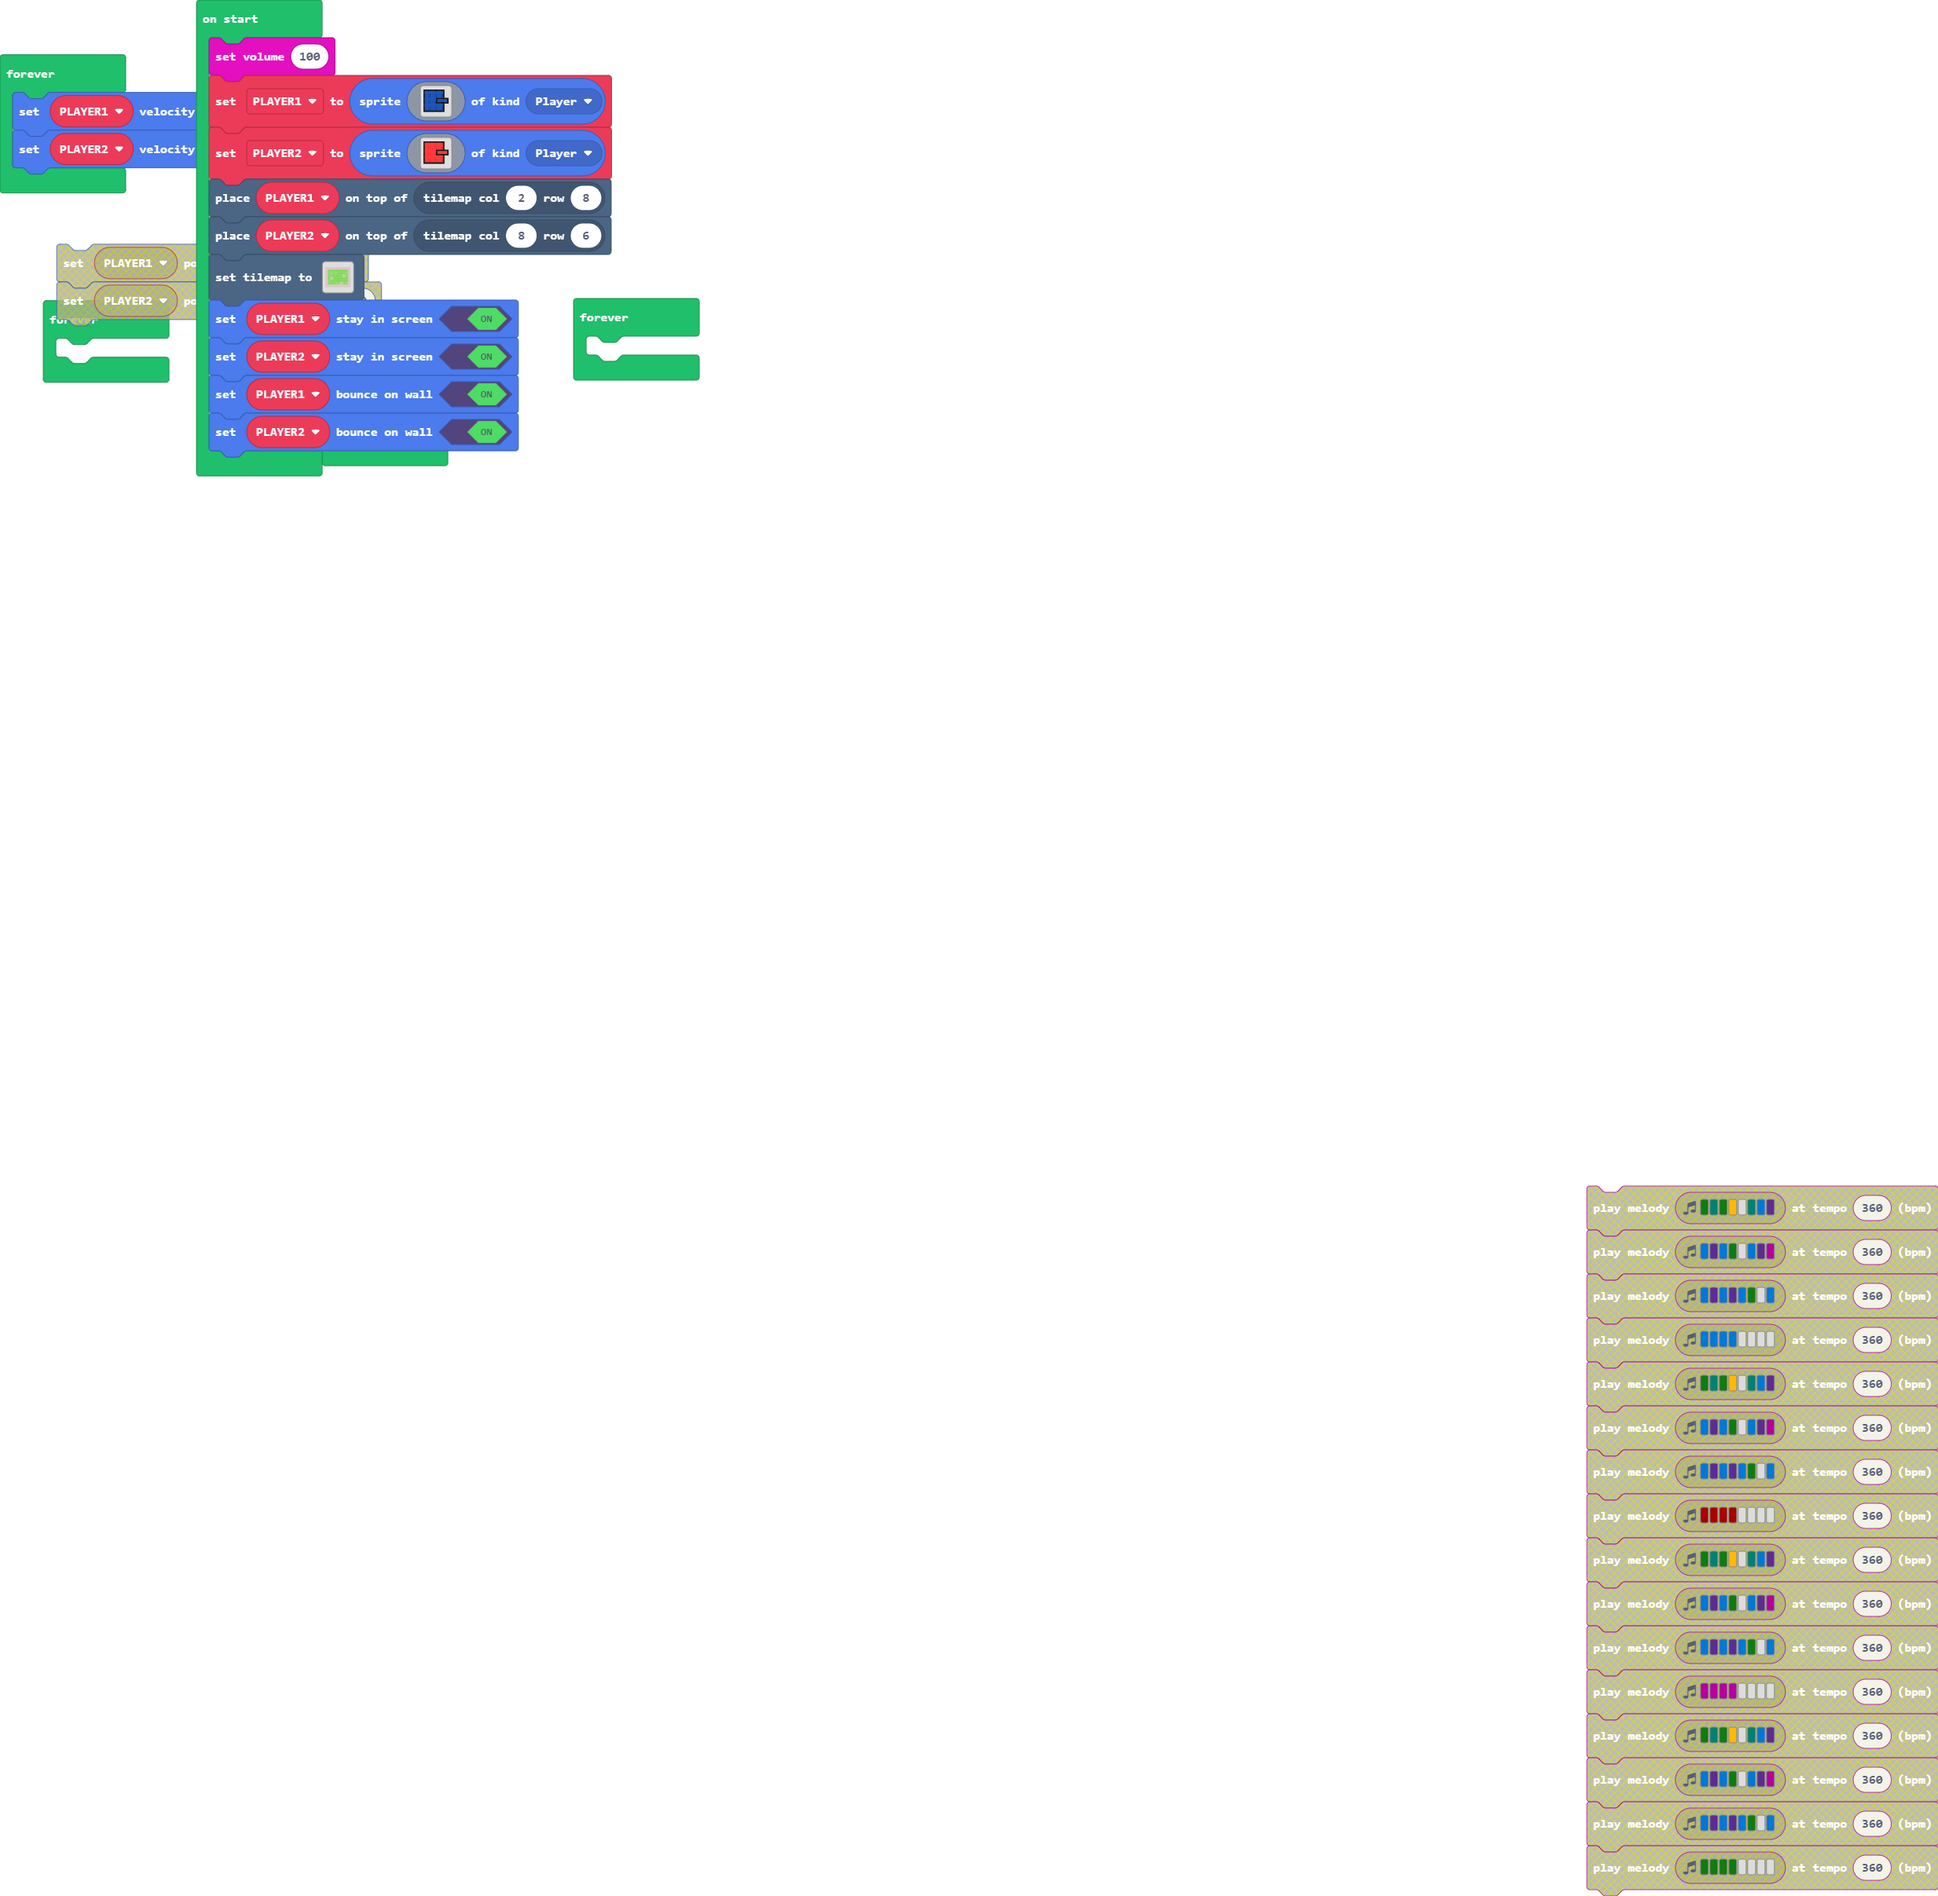
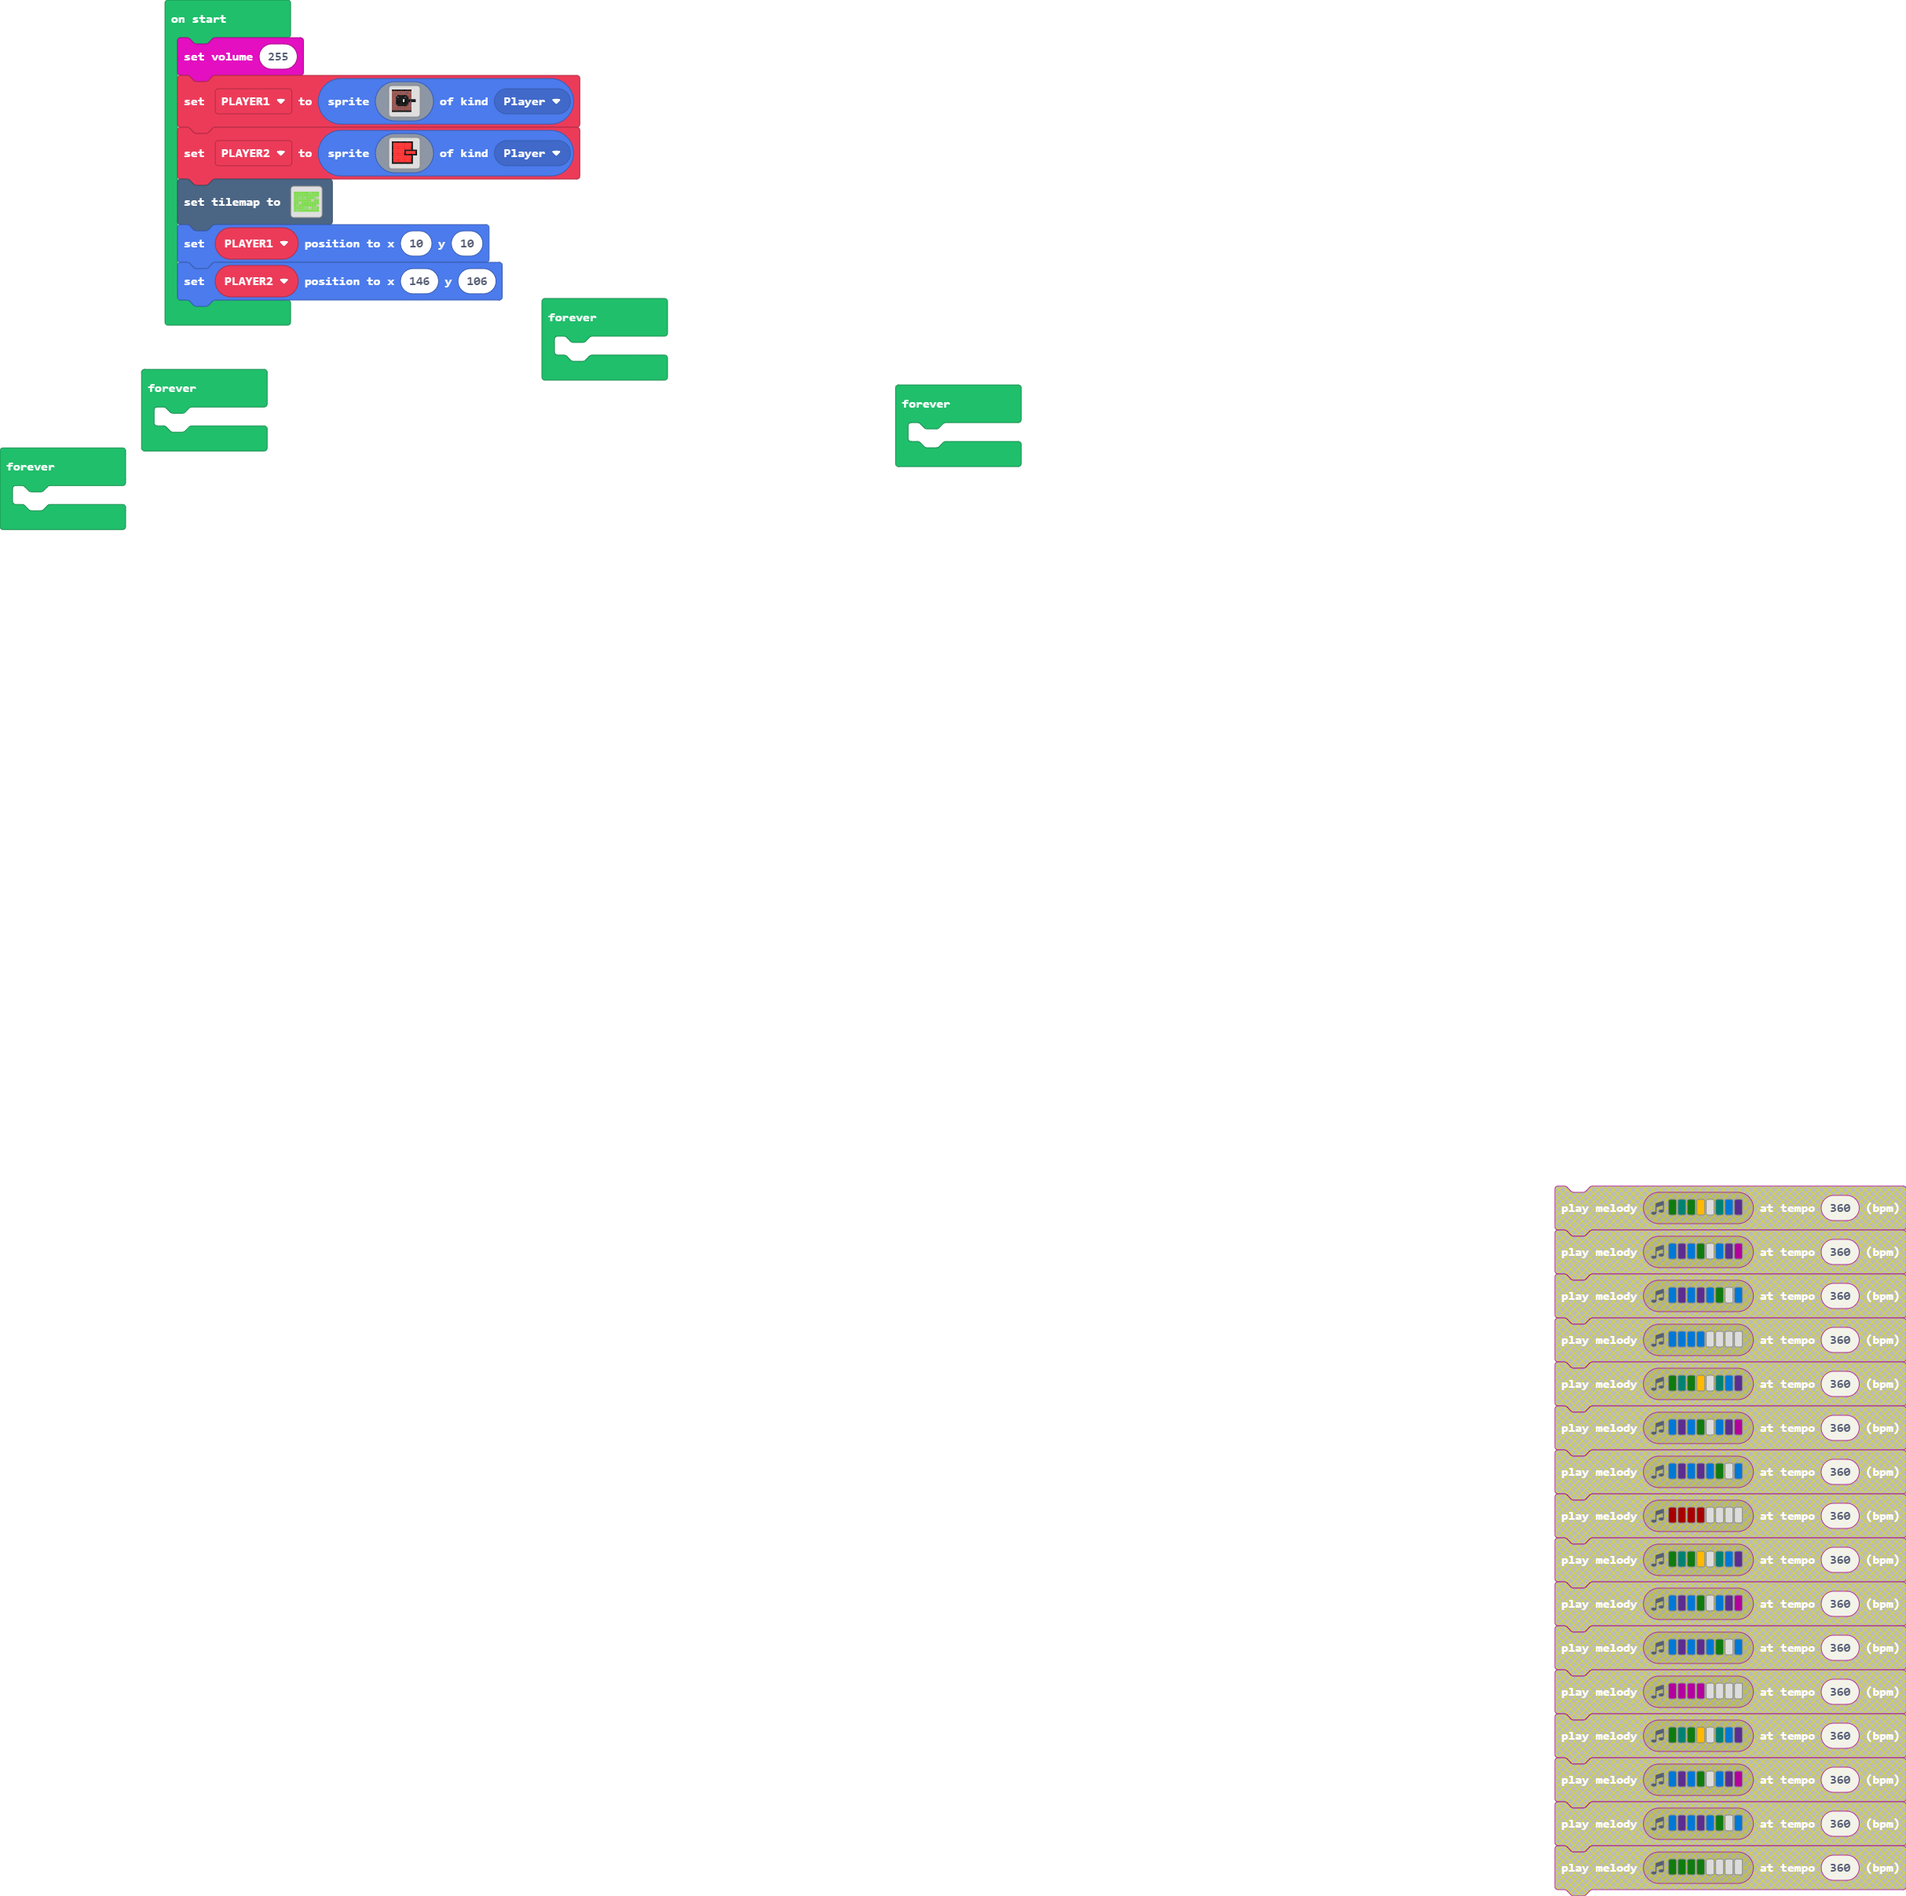
Update main.blocks, main.ts, tilemap.g.jres, tilemap.g.ts

diff --git a/tilemap.g.ts b/tilemap.g.ts
@@ -6,16 +6,54 @@ namespace myTiles {
     helpers._registerFactory("tilemap", function(name: string) {
         switch(helpers.stringTrim(name)) {
             case "level1":
[1 lines of base64/hex data omitted]
-2 2 2 2 2 2 2 2 2 2 
-2 . . . . . . . . 2 
-2 . . . . . . . . 2 
-2 . . . . . . . . 2 
-2 . . . . . . . . 2 
-2 . . . . . . . . 2 
-2 . . . . . . . . 2 
-2 2 2 2 2 2 2 2 2 2 
-`, [myTiles.transparency16,sprites.castle.tileGrass1,sprites.castle.tilePath4,sprites.castle.tilePath6,sprites.castle.tilePath2,sprites.castle.tileGrass2,sprites.dungeon.floorLight0], TileScale.Sixteen);
[1 lines of base64/hex data omitted]
+. . . . . . . . . . 
+. . . . . . . . . . 
+. . . . . . . . . . 
+. . . . . . . . . . 
+. . . . . . . . . . 
+. . . . . . . . . . 
+. . . . . . . . . . 
+. . . . . . . . . . 
+`, [myTiles.transparency16,sprites.castle.tileGrass1,sprites.castle.tilePath4,sprites.castle.tilePath6,sprites.castle.tilePath2,sprites.castle.tileGrass2], TileScale.Sixteen);
+            case "level2":
+            case "level2":return tiles.createTilemap(hex`1000100000000000000000000000000000000000000000000000000000000000000000000000000000000000000000000000000000000000000000000000000000000000000000000000000000000000000000000000000000000000000000000000000000000000000000000000000000000000000000000000000000000000000000000000000000000000000000000000000000000000000000000000000000000000000000000000000000000000000000000000000000000000000000000000000000000000000000000000000000000000000000000000000000000000000000000000000000000000000000000000000000000000000000000000000000000000`, img`
+. . . . . . . . . . . . . . . . 
+. . . . . . . . . . . . . . . . 
+. . . . . . . . . . . . . . . . 
+. . . . . . . . . . . . . . . . 
+. . . . . . . . . . . . . . . . 
+. . . . . . . . . . . . . . . . 
+. . . . . . . . . . . . . . . . 
+. . . . . . . . . . . . . . . . 
+. . . . . . . . . . . . . . . . 
+. . . . . . . . . . . . . . . . 
+. . . . . . . . . . . . . . . . 
+. . . . . . . . . . . . . . . . 
+. . . . . . . . . . . . . . . . 
+. . . . . . . . . . . . . . . . 
+. . . . . . . . . . . . . . . . 
+. . . . . . . . . . . . . . . . 
+`, [myTiles.transparency16], TileScale.Sixteen);
+            case "level3":
+            case "level3":return tiles.createTilemap(hex`1000100000000000000000000000000000000000000000000000000000000000000000000000000000000000000000000000000000000000000000000000000000000000000000000000000000000000000000000000000000000000000000000000000000000000000000000000000000000000000000000000000000000000000000000000000000000000000000000000000000000000000000000000000000000000000000000000000000000000000000000000000000000000000000000000000000000000000000000000000000000000000000000000000000000000000000000000000000000000000000000000000000000000000000000000000000000000`, img`
+. . . . . . . . . . . . . . . . 
+. . . . . . . . . . . . . . . . 
+. . . . . . . . . . . . . . . . 
+. . . . . . . . . . . . . . . . 
+. . . . . . . . . . . . . . . . 
+. . . . . . . . . . . . . . . . 
+. . . . . . . . . . . . . . . . 
+. . . . . . . . . . . . . . . . 
+. . . . . . . . . . . . . . . . 
+. . . . . . . . . . . . . . . . 
+. . . . . . . . . . . . . . . . 
+. . . . . . . . . . . . . . . . 
+. . . . . . . . . . . . . . . . 
+. . . . . . . . . . . . . . . . 
+. . . . . . . . . . . . . . . . 
+. . . . . . . . . . . . . . . . 
+`, [myTiles.transparency16], TileScale.Sixteen);
         }
         return null;
     })

diff --git a/main.ts b/main.ts
@@ -1,21 +1,21 @@
-music.setVolume(100)
+music.setVolume(255)
 let PLAYER1 = sprites.create(img`
-    f f f f f f f f f f f f f f f . . . 
-    f 8 8 8 8 8 8 8 8 8 8 8 8 8 f . . . 
-    f 8 8 8 8 8 8 8 8 8 8 8 8 8 f . . . 
-    f 8 8 8 8 8 8 8 8 8 8 8 8 8 f . . . 
-    f 8 8 8 8 8 8 8 8 8 8 8 8 8 f . . . 
-    f 8 8 8 8 8 8 8 8 8 8 8 8 8 f . . . 
-    f 8 8 8 8 8 8 8 8 f f f f f f f f f 
-    f 8 8 8 8 8 8 8 8 f 8 8 8 8 8 8 8 f 
-    f 8 8 8 8 8 8 8 8 f 8 8 8 8 8 8 8 f 
-    f 8 8 8 8 8 8 8 8 f f f f f f f f f 
-    f 8 8 8 8 8 8 8 8 8 8 8 8 8 f . . . 
-    f 8 8 8 8 8 8 8 8 8 8 8 8 8 f . . . 
-    f 8 8 8 8 8 8 8 8 8 8 8 8 8 f . . . 
-    f 8 8 8 8 8 8 8 8 8 8 8 8 8 f . . . 
-    f 8 8 8 8 8 8 8 8 8 8 8 8 8 f . . . 
-    f f f f f f f f f f f f f f f . . . 
+    f f f f f f f f f f f f f f . . . . 
+    e e e e e e e e e e e e e e . . . . 
+    e e e e e e c e e e c c e e . . . . 
+    e e c e e e e e e e e e e e . . . . 
+    e e e e f f f f f f f e e e . . . . 
+    e e e f c f f f f c f f e e . . . . 
+    e e e f f f f f f f f f e e . . . . 
+    e e e f f f f f 1 f f f f f f f f . 
+    e e e f f f f f 1 f f f f c f f f . 
+    e e e f f f f f f f f f e e . . . . 
+    e e e f f f f f f f f f e c . . . . 
+    c e e e f f f f f f f e e e . . . . 
+    e e e e e e e e e e e e e e . . . . 
+    e e c e e e c e e e e c e e . . . . 
+    e e e e e e e e e e e e e e . . . . 
+    f f f f f f f f f f f f f f . . . . 
     `, SpriteKind.Player)
 let PLAYER2 = sprites.create(img`
     f f f f f f f f f f f f f f f . . . 
@@ -35,16 +35,11 @@ let PLAYER2 = sprites.create(img`
     f 2 2 2 2 2 2 2 2 2 2 2 2 2 f . . . 
     f f f f f f f f f f f f f f f . . . 
     `, SpriteKind.Player)
-tiles.placeOnTile(PLAYER1, tiles.getTileLocation(2, 8))
-tiles.placeOnTile(PLAYER2, tiles.getTileLocation(8, 6))
 tiles.setTilemap(tilemap`level1`)
-PLAYER1.setStayInScreen(true)
-PLAYER2.setStayInScreen(true)
-PLAYER1.setBounceOnWall(true)
-PLAYER2.setBounceOnWall(true)
+PLAYER1.setPosition(10, 10)
+PLAYER2.setPosition(146, 106)
 forever(function () {
-    PLAYER1.setVelocity(50, 50)
-    PLAYER2.setVelocity(50, 50)
+	
 })
 forever(function () {
 	
